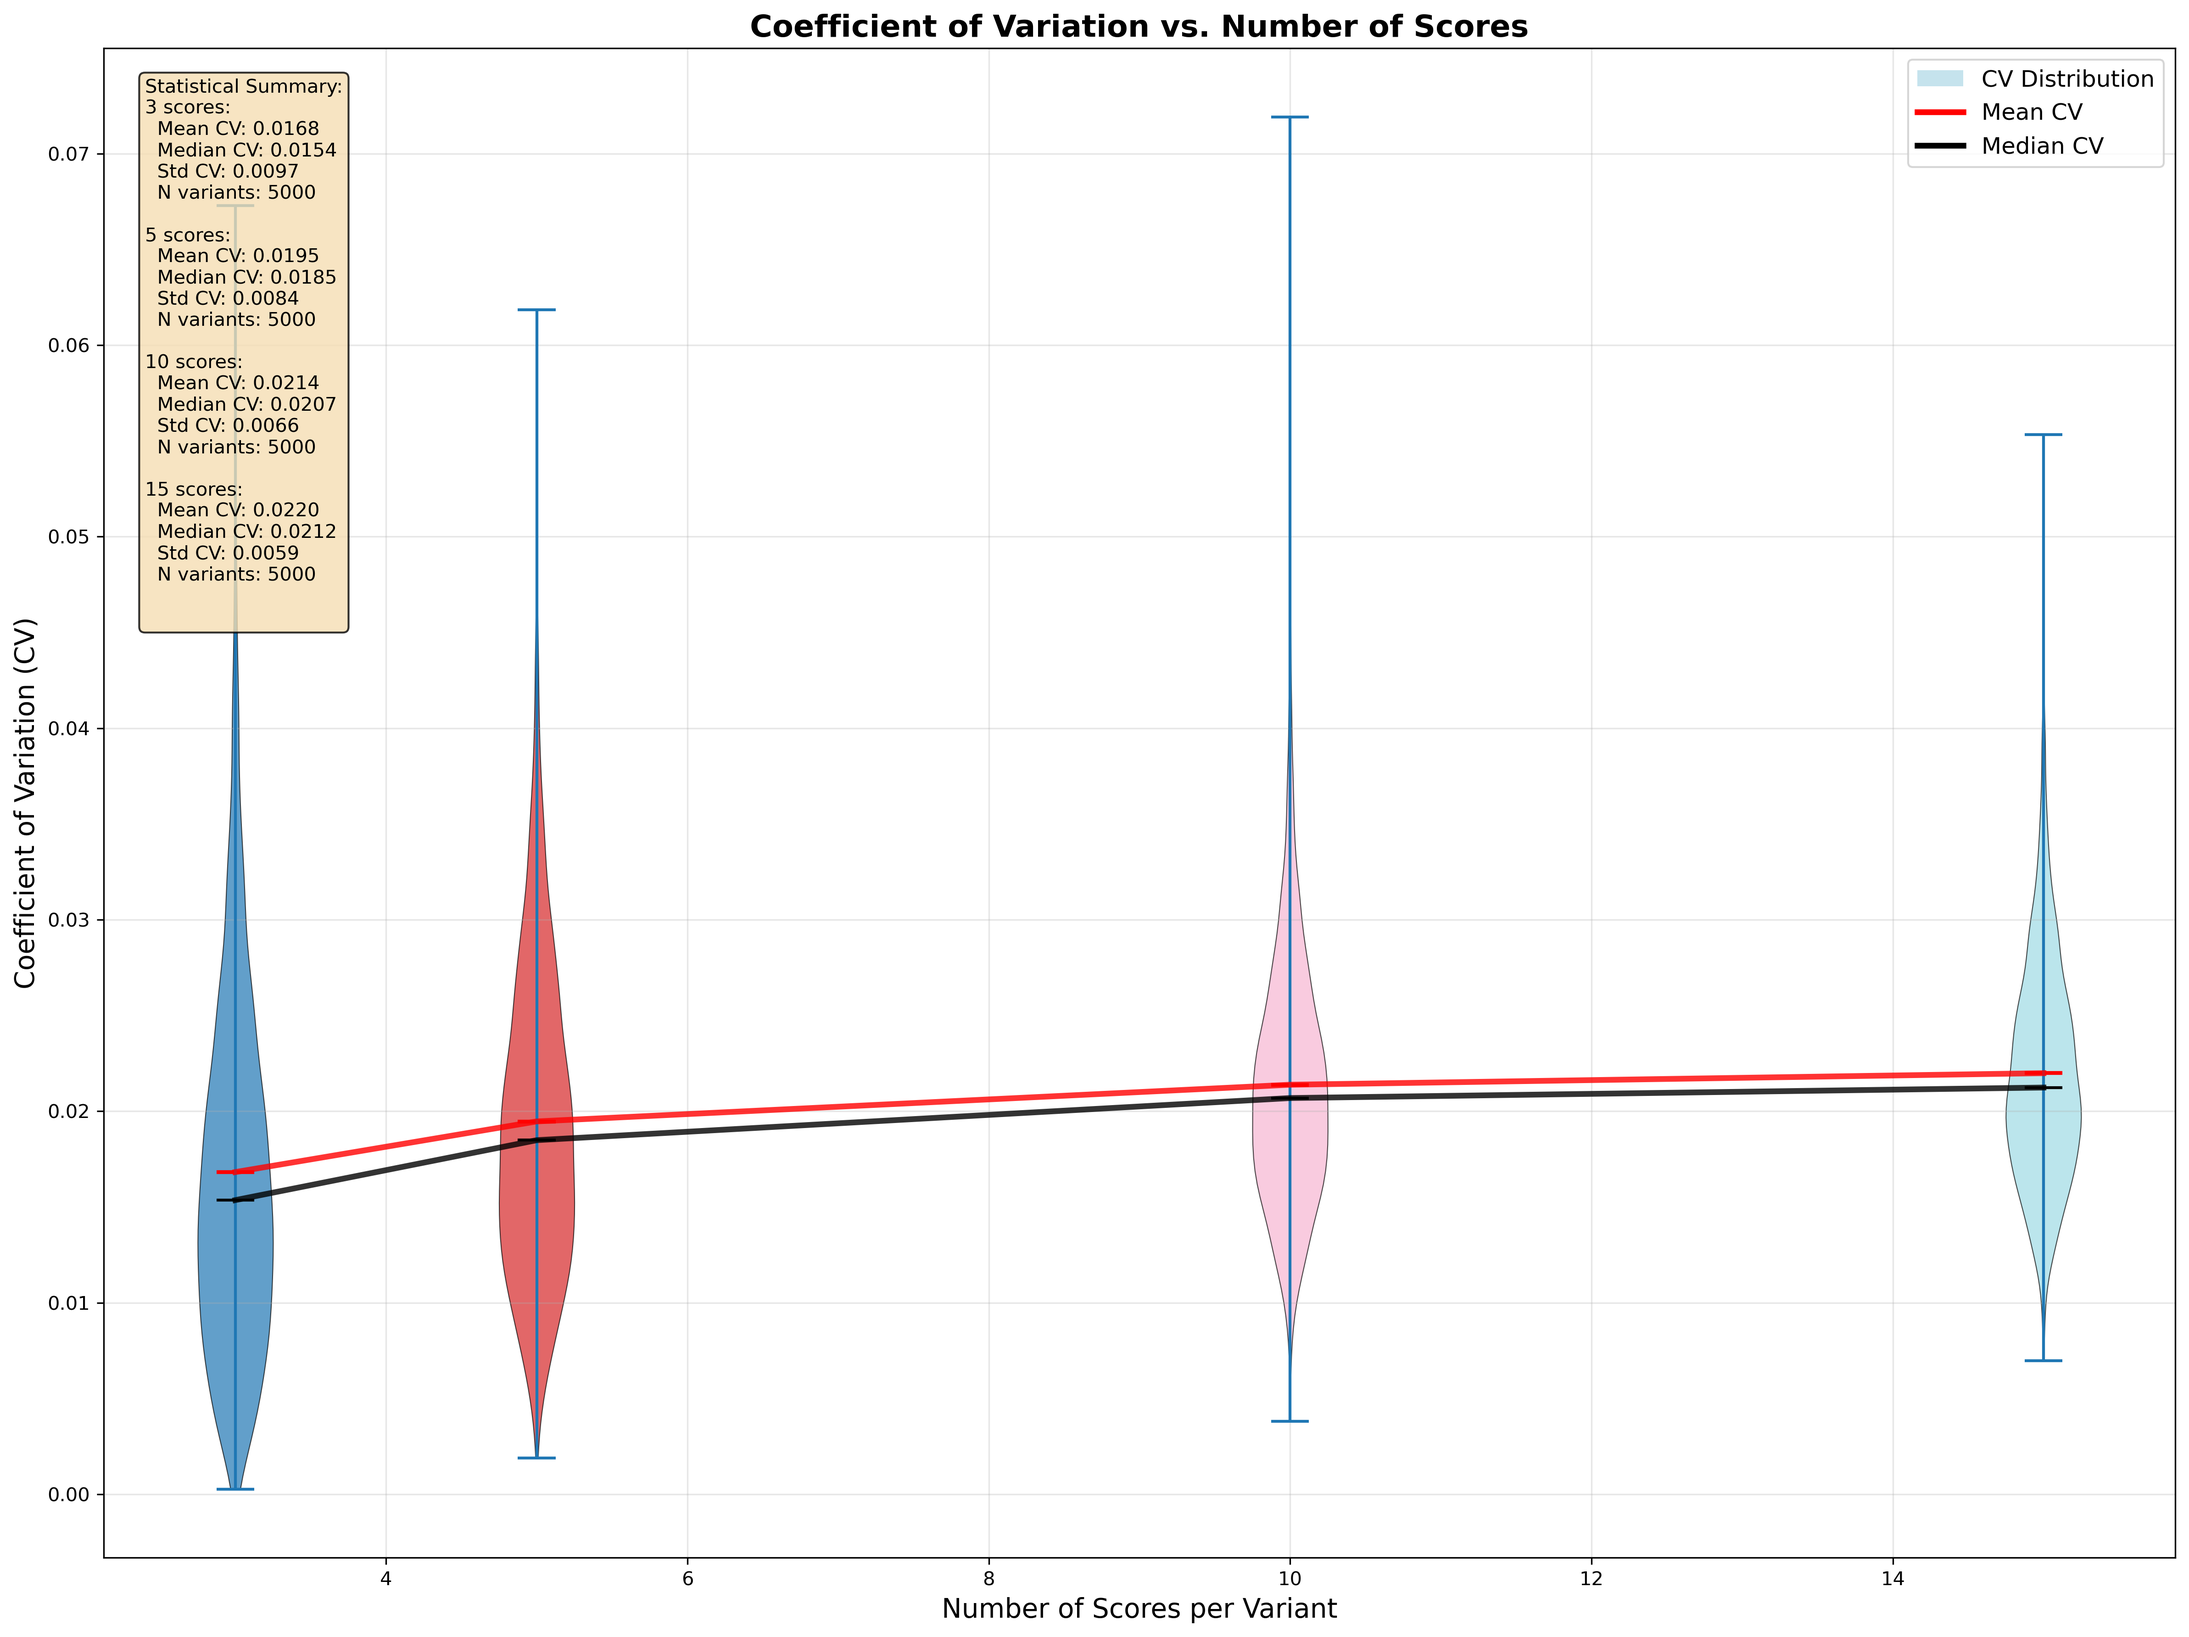
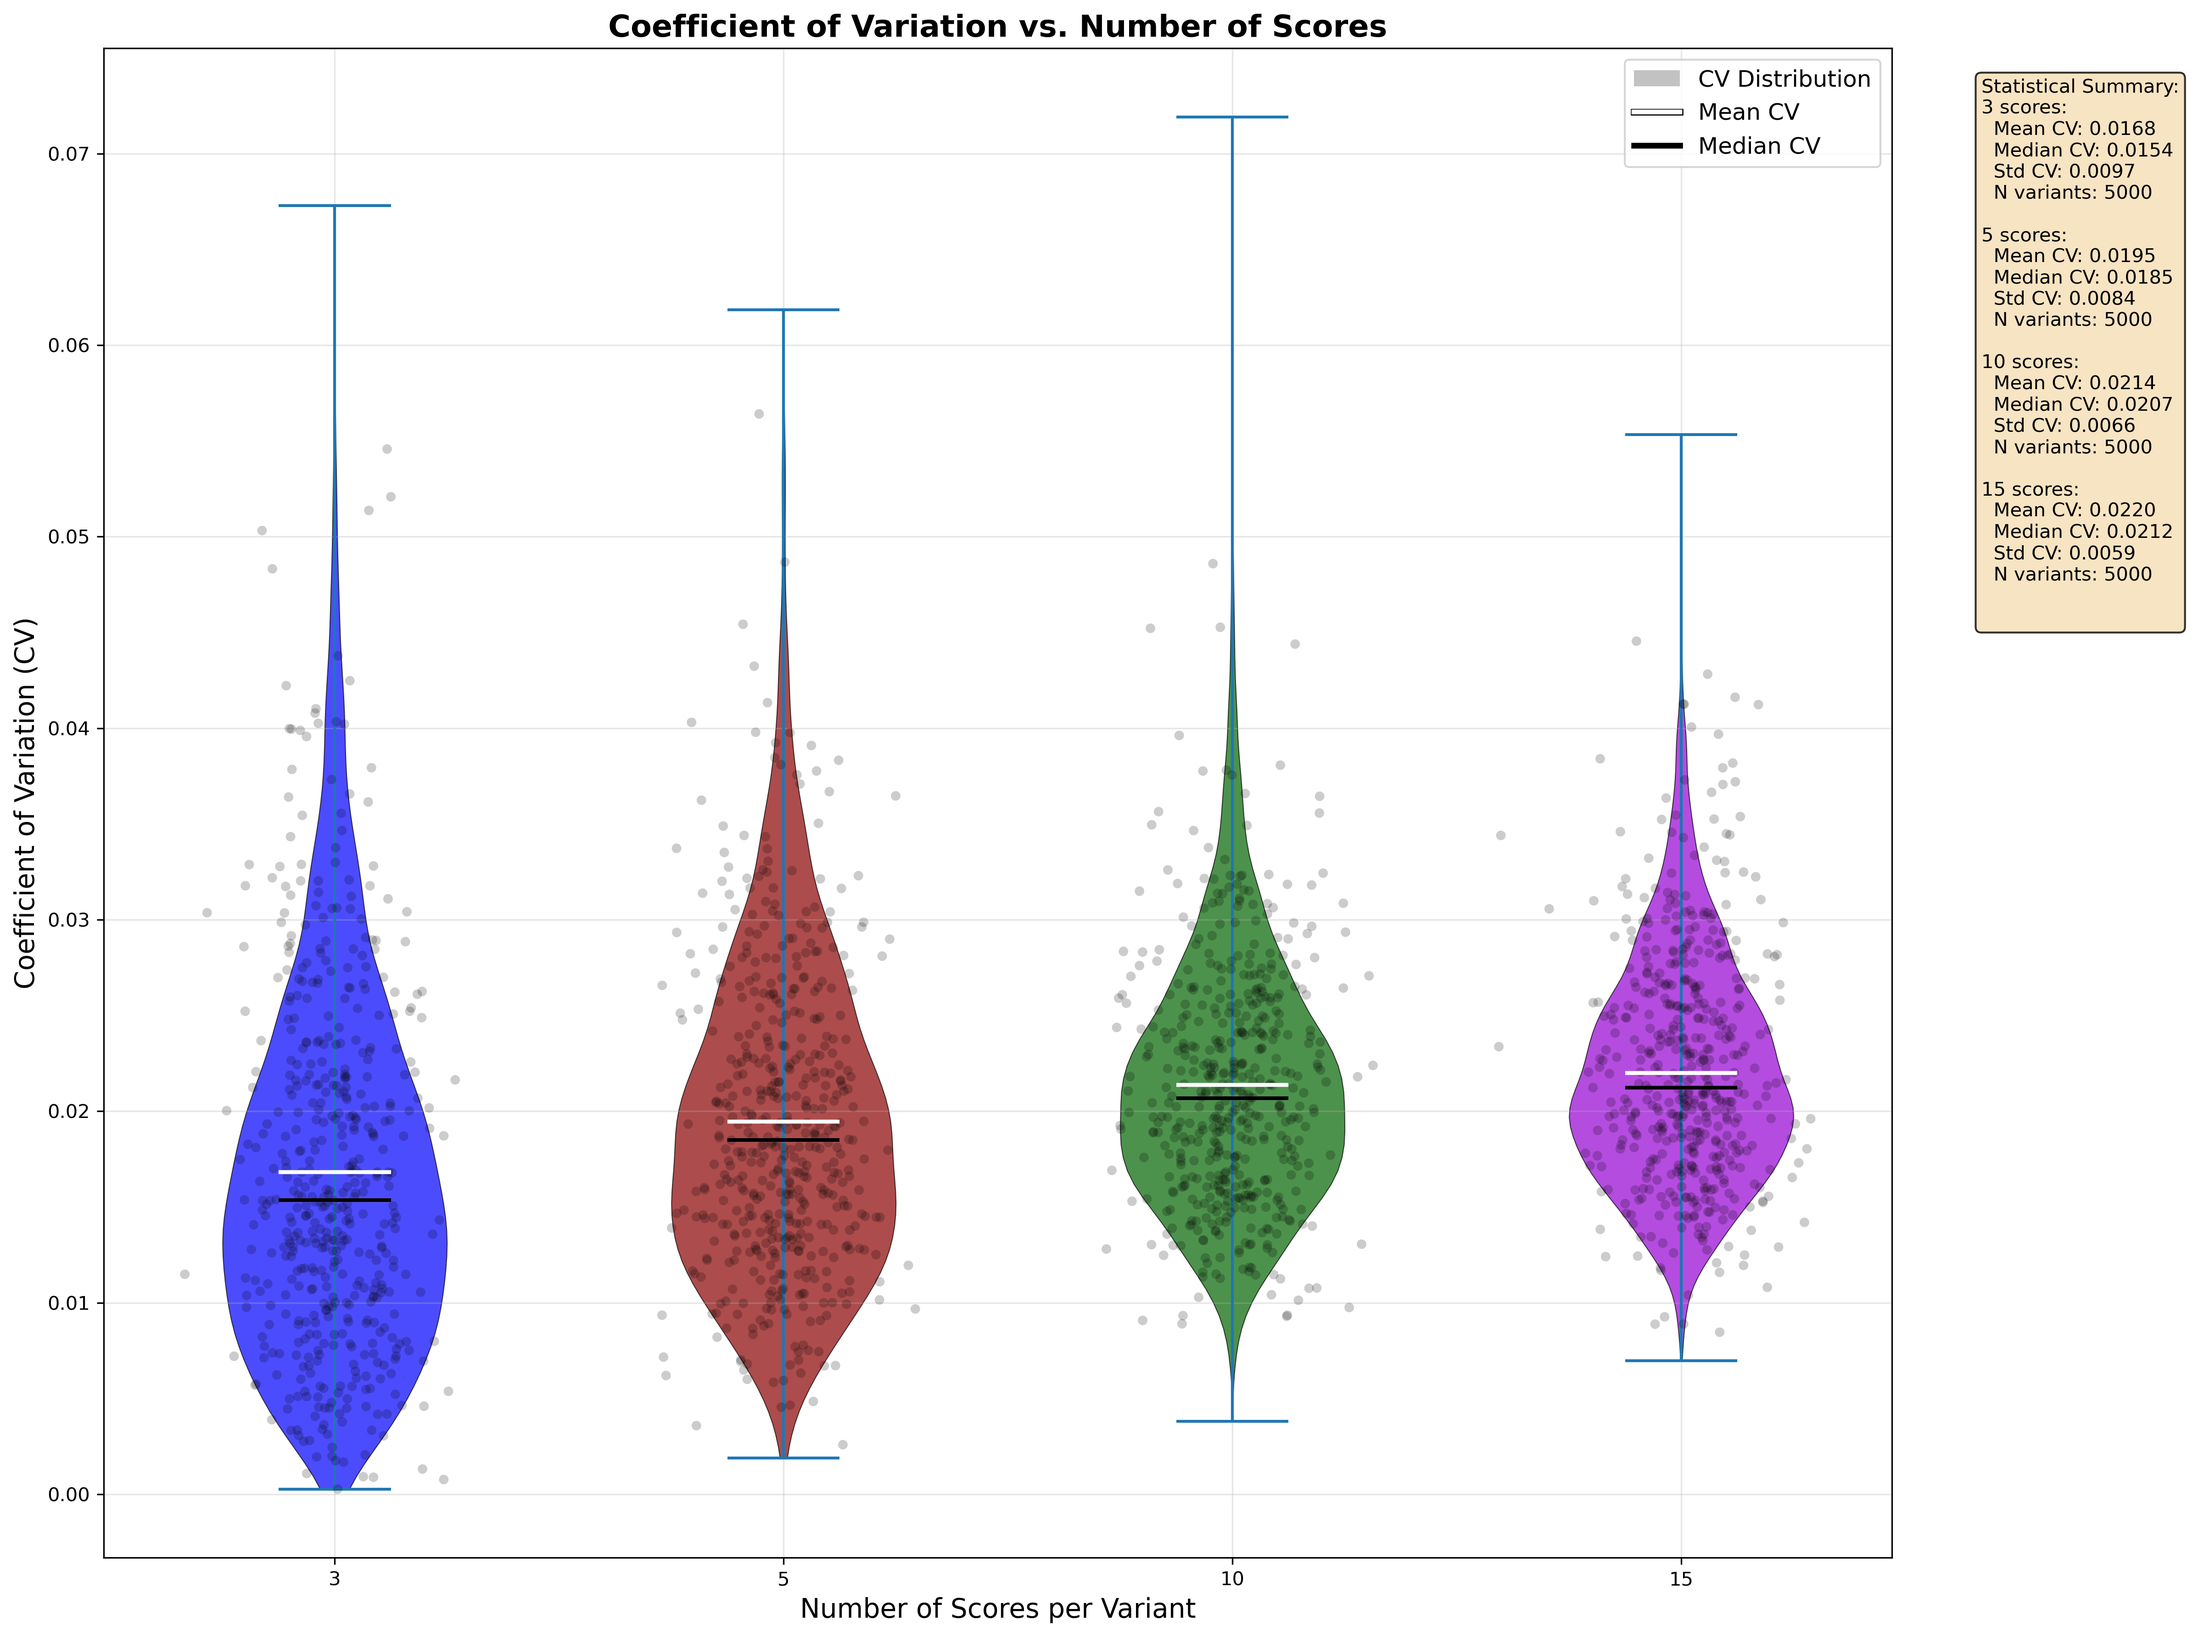
cv vs. nscore now a violin plot w/mean and median lines

diff --git a/custom_runs/cv_vs_nscores_analysis.py b/custom_runs/cv_vs_nscores_analysis.py
@@ -8,6 +8,7 @@ of each calculation, as required by the assignment.
 
 import numpy as np
 import matplotlib.pyplot as plt
+import matplotlib.patheffects
 import os
 import glob
 import argparse
@@ -91,32 +92,58 @@ def create_cv_vs_nscores_plot(sample_data_dict, output_path, title="Coefficient 
     score_counts = sorted(score_groups.keys())
     cv_data = [score_groups[count] for count in score_counts]
     
+    # Create categorical positions for even spacing
+    positions = list(range(len(score_counts)))
+    
     # Create violin plot
-    violin_parts = plt.violinplot(cv_data, positions=score_counts, showmeans=True, showmedians=True)
+    violin_parts = plt.violinplot(cv_data, positions=positions, showmeans=True, showmedians=True)
     
     # Customize violin plot appearance
     violin_parts['bodies'][0].set_facecolor('lightblue')
     violin_parts['bodies'][0].set_alpha(0.7)
-    violin_parts['cmeans'].set_color('red')
-    violin_parts['cmeans'].set_linewidth(2)
-    violin_parts['cmedians'].set_color('black')
-    violin_parts['cmedians'].set_linewidth=2
     
+    # Make mean and median lines more prominent and ensure they're above data points
+    violin_parts['cmeans'].set_color('white')
+    violin_parts['cmeans'].set_linewidth(2)
+    violin_parts['cmeans'].set_zorder(20)
+    violin_parts['cmeans'].set_path_effects([plt.matplotlib.patheffects.withStroke(linewidth=2, foreground='white')])
+    
+    violin_parts['cmedians'].set_color('black')
+    violin_parts['cmedians'].set_linewidth(2)
+    violin_parts['cmedians'].set_zorder(20)
+    violin_parts['cmedians'].set_path_effects([plt.matplotlib.patheffects.withStroke(linewidth=2, foreground='white')])
     # Color each violin differently
-    colors = plt.cm.tab20(np.linspace(0, 1, len(score_counts)))
-    for i, (body, color) in enumerate(zip(violin_parts['bodies'], colors)):
+    # Custom darker color palette (works well with white mean line)
+    custom_colors = [
+        "blue",  # blue
+        "darkred",  # dark red
+        "darkgreen",  # dark green
+        "darkviolet",  # dark violet
+    ]
+
+    for i, (body, color) in enumerate(zip(violin_parts['bodies'], custom_colors)):
         body.set_facecolor(color)
         body.set_alpha(0.7)
-        body.set_edgecolor('black')
+        body.set_edgecolor("black")
         body.set_linewidth(0.5)
+
     
-    # Add trend line connecting the means
-    means = [np.mean(cvs) for cvs in cv_data]
-    plt.plot(score_counts, means, 'r-', linewidth=3, alpha=0.8, label='Mean CV trend', zorder=5)
+
+    # Add 10% of data points (chosen randomly) to each violin
+    np.random.seed(42)  # For reproducible random selection
+    for i, (score_count, cvs) in enumerate(zip(score_counts, cv_data)):
+        # Randomly select 10% of the data points
+        n_points = len(cvs)
+        n_selected = max(1, n_points // 10)  # At least 1 point, 10% of total
+        selected_indices = np.random.choice(n_points, size=n_selected, replace=False)
+        selected_cvs = [cvs[j] for j in selected_indices]
+        
+        # Add jitter to x-position to avoid overlap
+        jitter = np.random.normal(0, 0.1, len(selected_cvs))
+        plt.scatter(positions[i] + jitter, selected_cvs, alpha=0.2, s=25, color='black', zorder=5, edgecolors='none')
     
-    # Add trend line connecting the medians
-    medians = [np.median(cvs) for cvs in cv_data]
-    plt.plot(score_counts, medians, 'k-', linewidth=3, alpha=0.8, label='Median CV trend', zorder=5)
+    # Set x-axis ticks to show actual score count values
+    plt.xticks(positions, score_counts)
     
     plt.xlabel('Number of Scores per Variant', fontsize=14)
     plt.ylabel('Coefficient of Variation (CV)', fontsize=14)
@@ -125,12 +152,20 @@ def create_cv_vs_nscores_plot(sample_data_dict, output_path, title="Coefficient 
     # Create custom legend
     from matplotlib.patches import Patch
     from matplotlib.lines import Line2D
+    import matplotlib.patheffects as pe
+
     legend_elements = [
-        Patch(facecolor='lightblue', alpha=0.7, label='CV Distribution'),
-        Line2D([0], [0], color='red', linewidth=3, label='Mean CV'),
-        Line2D([0], [0], color='black', linewidth=3, label='Median CV')
-    ]
+        Patch(facecolor='darkgray', alpha=0.7, label='CV Distribution'),
+        Line2D([0], [0], color='white', linewidth=2.5,
+            path_effects=[pe.withStroke(linewidth=3.5, foreground='black')],
+            label='Mean CV'),
+        Line2D([0], [0], color='black', linewidth=2,
+            path_effects=[pe.withStroke(linewidth=3)],
+            label='Median CV')
+]
+
     plt.legend(handles=legend_elements, loc='upper right', fontsize=12)
+
     
     plt.grid(True, alpha=0.3)
     
@@ -167,7 +202,7 @@ def create_cv_vs_nscores_plot(sample_data_dict, output_path, title="Coefficient 
             insight_text += f"  Std CV: {stats['std']:.4f}\n"
             insight_text += f"  N variants: {stats['count']}\n\n"
         
-        plt.text(0.02, 0.98, insight_text, transform=plt.gca().transAxes, 
+        plt.text(1.05, 0.98, insight_text, transform=plt.gca().transAxes, 
                 fontsize=10, verticalalignment='top', bbox=dict(boxstyle='round', facecolor='wheat', alpha=0.8))
     
     # Adjust layout

diff --git a/custom_runs/column_histogram_analysis.py b/custom_runs/column_histogram_analysis.py
@@ -322,8 +322,8 @@ def main():
     parser = argparse.ArgumentParser(description='Column histogram analysis of sequence variant scores')
     parser.add_argument('--sample_dirs', nargs='+', required=False,
                        help='Directories containing sample data (each should be a sample directory or its score_only subdir)')
-    parser.add_argument('--base_dir', default='../outputs/my_variants/5UOI/sample_variant_scores',
-                       help='Base directory to auto-discover sample score directories (default: ../outputs/my_variants/5UOI/sample_variant_scores)')
+    parser.add_argument('--base_dir', default='../outputs/my_variants/5UOI/sample_variant_scores/5score',
+                       help='Base directory to auto-discover sample score directories (default: ../outputs/my_variants/5UOI/sample_variant_scores/5score)')
     parser.add_argument('--output_dir', default='../outputs/my_variants/5UOI/column_histogram_analysis',
                        help='Output directory for plots (default: ../outputs/my_variants/5UOI/column_histogram_analysis)')
     parser.add_argument('--bins', type=int, default=30,
